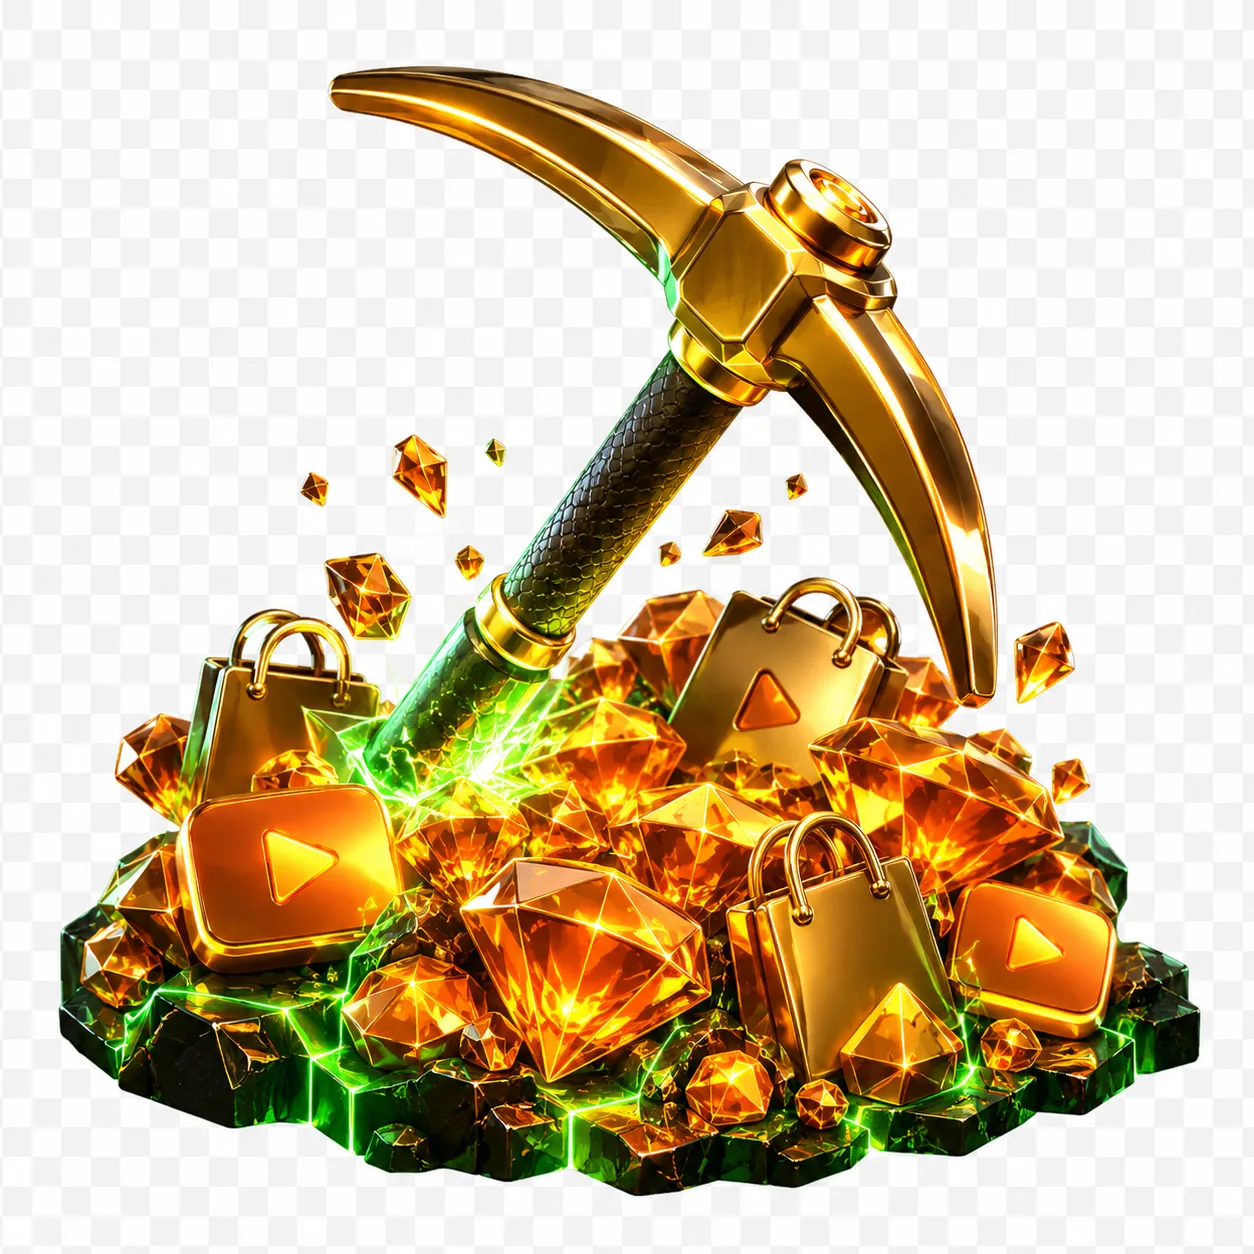
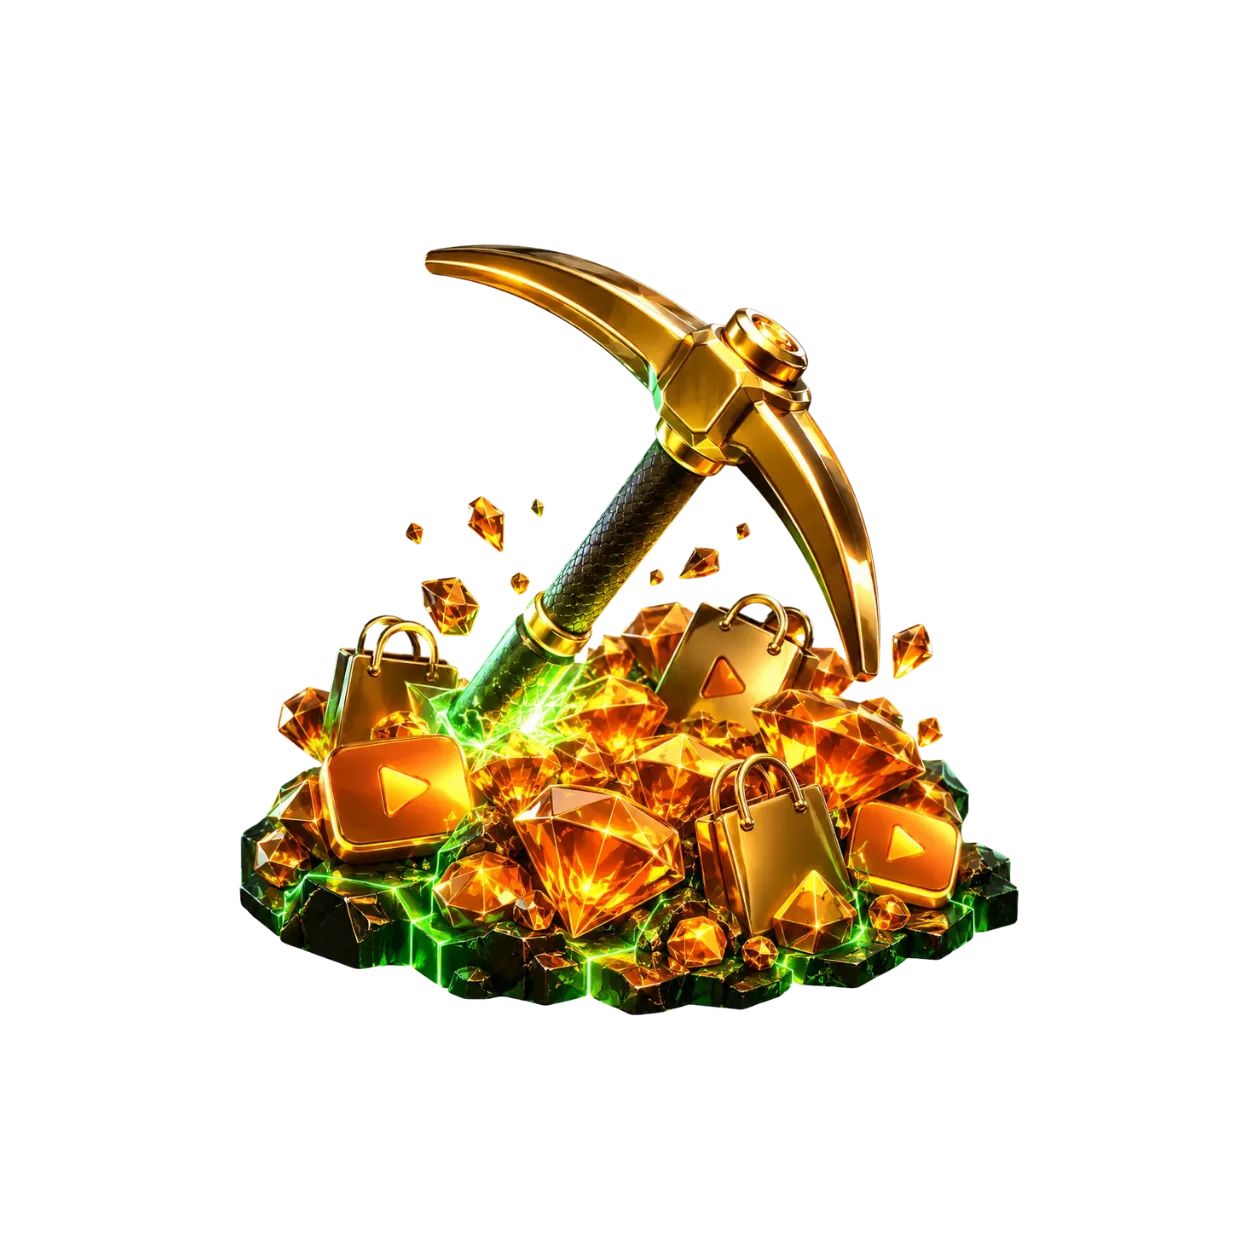
fix(minerador): troca heroi/lupa por versoes com fundo transparente (?v=2)

diff --git a/src/components/app/minerador-chat.tsx b/src/components/app/minerador-chat.tsx
@@ -181,7 +181,7 @@ export function MineradorChat() {
           <div className="hidden shrink-0 lg:block">
             {/* eslint-disable-next-line @next/next/no-img-element */}
             <img
-              src="/minerador/heroi.webp"
+              src="/minerador/heroi.webp?v=2"
               alt=""
               className="size-64 object-contain drop-shadow-[0_10px_40px_rgba(16,185,129,0.35)]"
               style={{ animation: "mineradorFloat 4s ease-in-out infinite" }}
@@ -207,7 +207,7 @@ export function MineradorChat() {
             />
             {/* eslint-disable-next-line @next/next/no-img-element */}
             <img
-              src="/minerador/lupa.webp"
+              src="/minerador/lupa.webp?v=2"
               alt="Garimpando"
               className="relative size-48 object-contain"
               style={{ animation: "mineradorFloat 3s ease-in-out infinite" }}
